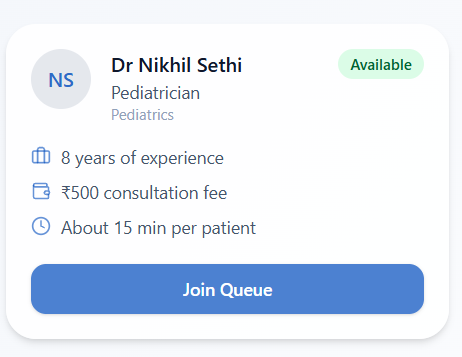
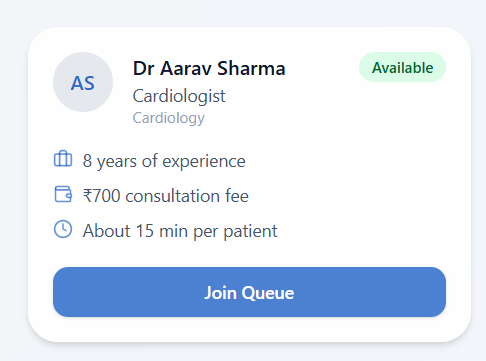
Updated features in features section

diff --git a/src/pages/Features.jsx b/src/pages/Features.jsx
@@ -14,6 +14,11 @@ const FEATURES = [
     title: "Track Your Token in Real Time",
     description: "Follow your token number and see your estimated waiting time.",
   },
+  {
+    image: "/Features4.png",
+    title: "Ambulance Tracking",
+    description: "Staff can track ambulances in real time.",
+  },
 ];
 
 export default function Features() {
@@ -23,29 +28,27 @@ export default function Features() {
       className="mx-auto max-w-6xl scroll-mt-6 px-6 pb-20"
       aria-labelledby="features-heading"
     >
-      <header className="mb-8">
+      <header className="mb-6">
         <p className="mb-2 text-base font-medium text-primary/70">What you can do</p>
         <h2 id="features-heading" className="text-3xl font-bold text-slate-900">
           Features
         </h2>
       </header>
 
-      <div className="grid gap-6 md:grid-cols-2">
-        {FEATURES.map(({ image, title, description }, index) => (
+      <div className="grid gap-4 sm:grid-cols-2 lg:grid-cols-4">
+        {FEATURES.map(({ image, title, description }) => (
           <article
             key={title}
-            className={`overflow-hidden rounded-3xl bg-white/90 shadow-lg ${
-              index === 2 ? "md:col-span-2 md:mx-auto md:w-1/2" : ""
-            }`}
+            className="overflow-hidden rounded-2xl bg-white/90 shadow-lg"
           >
             <img
               src={image}
               alt={title}
               className="aspect-video w-full object-cover"
             />
-            <div className="p-6">
-              <h3 className="text-xl font-semibold text-slate-900">{title}</h3>
-              <p className="mt-2 text-slate-600">{description}</p>
+            <div className="p-4">
+              <h3 className="text-lg font-semibold text-slate-900">{title}</h3>
+              <p className="mt-1 text-sm text-slate-600">{description}</p>
             </div>
           </article>
         ))}

diff --git a/src/pages/LandingPage.jsx b/src/pages/LandingPage.jsx
@@ -11,7 +11,6 @@ import About from "./About";
 import Features from "./Features";
 import { HowItWorksSection } from "./HowItWorks";
 
-// Put your hero photo in the /public folder as hero.jpg
 const HERO_IMAGE = "/hero.jpg";
 
 function TokenCard() {
@@ -67,13 +66,13 @@ function Hero() {
           >
             Get Started
           </Link>
-          <button
+          {/* <button
             type="button"
             className="inline-flex items-center gap-2 rounded-xl border border-primary/20 bg-white/60 px-6 py-3 font-medium text-primary/80 transition-colors hover:bg-white"
           >
             <Play className="h-4 w-4" />
             Watch Demo
-          </button>
+          </button> */}
         </div>
       </div>
 
@@ -85,7 +84,7 @@ function Hero() {
             alt="Doctor speaking with a patient at the hospital reception"
             className="h-full w-full object-cover"
             onError={(e) => {
-              // Hide the broken image icon until /public/hero.jpg exists
+              
               e.currentTarget.style.display = "none";
             }}
           />
